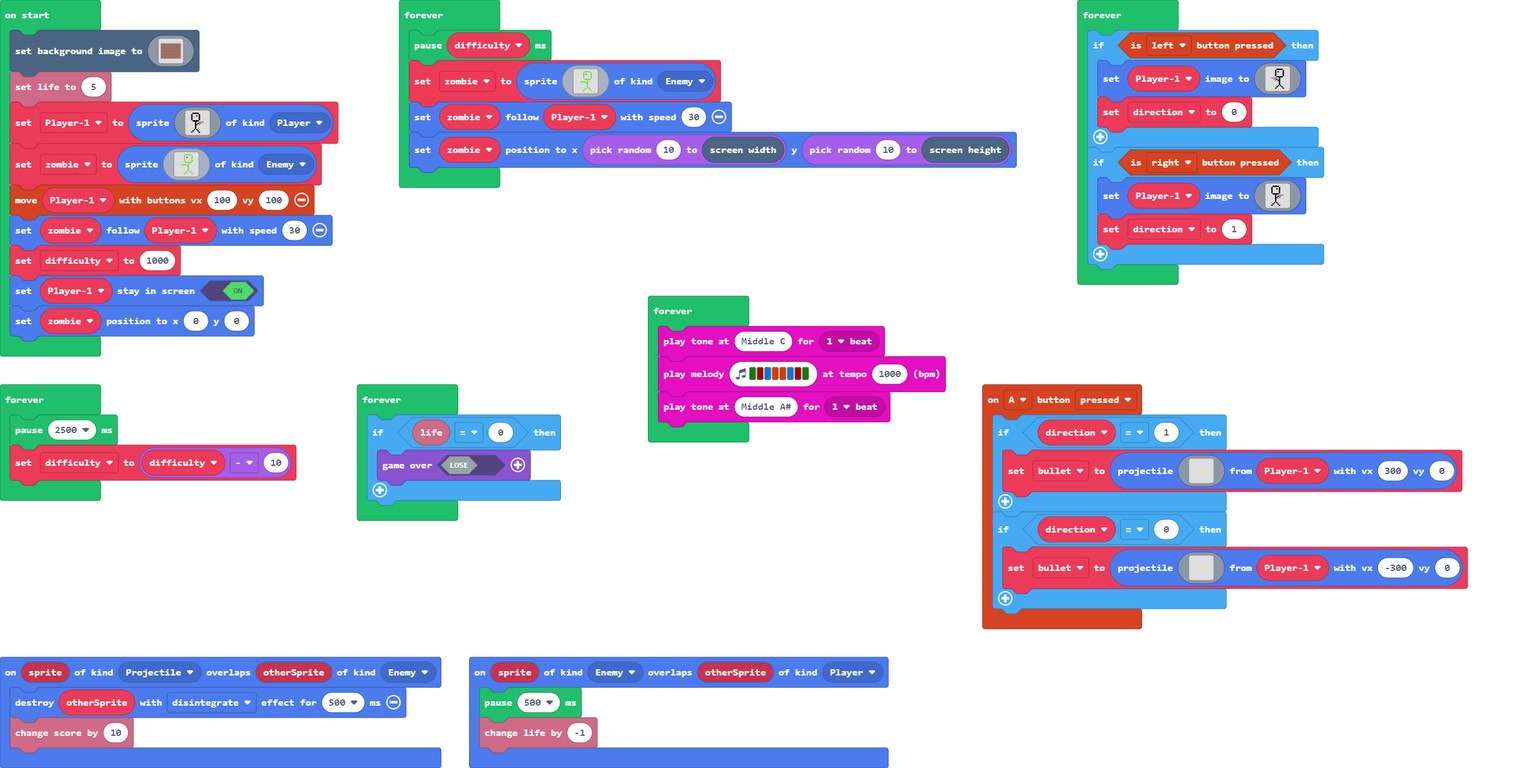
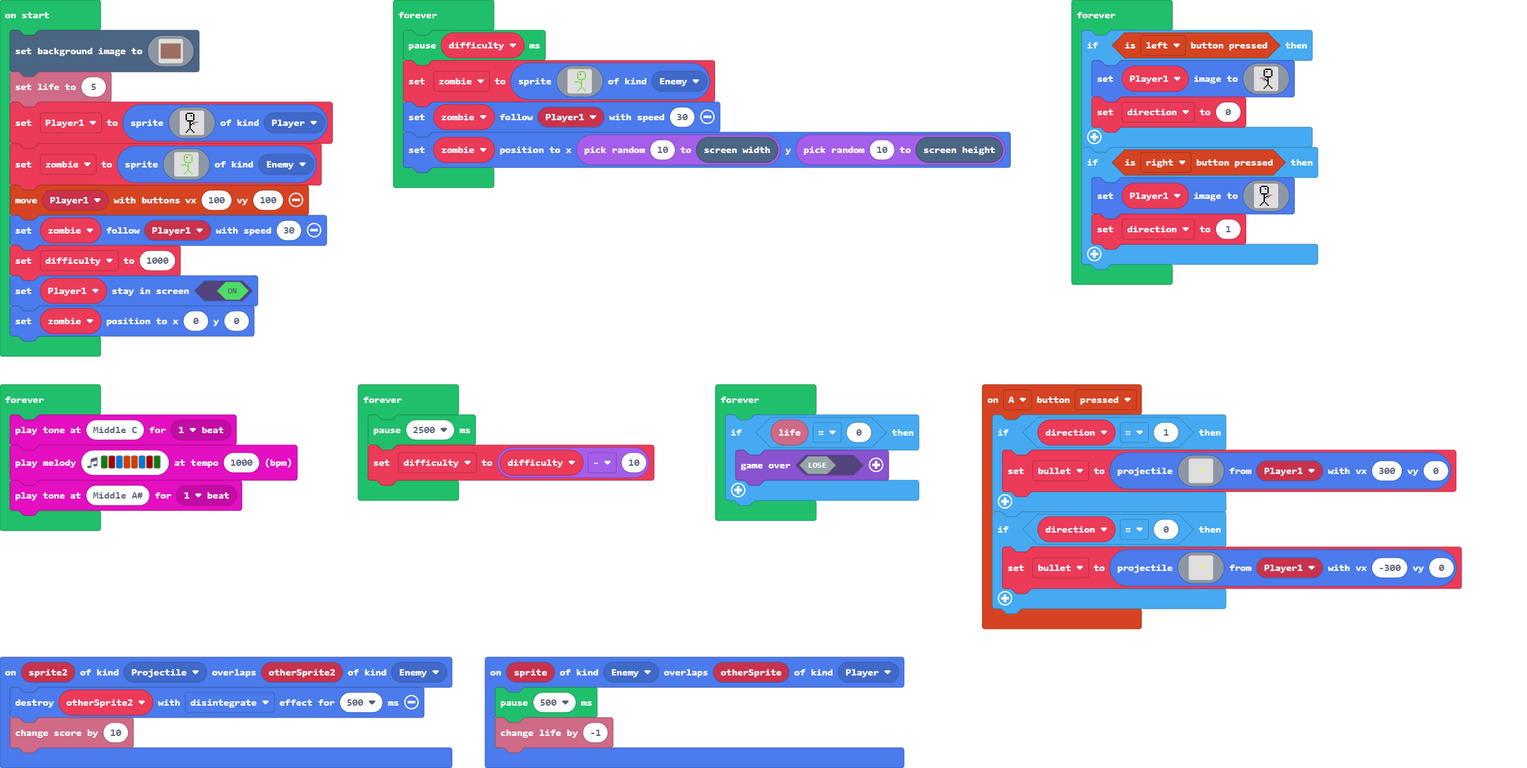
Update pxt.json, main.blocks, main.ts, main.py

diff --git a/main.ts b/main.ts
@@ -44,8 +44,8 @@ sprites.onOverlap(SpriteKind.Enemy, SpriteKind.Player, function (sprite, otherSp
     pause(500)
     info.changeLifeBy(-1)
 })
-sprites.onOverlap(SpriteKind.Projectile, SpriteKind.Enemy, function (sprite, otherSprite) {
-    otherSprite.destroy(effects.disintegrate, 500)
+sprites.onOverlap(SpriteKind.Projectile, SpriteKind.Enemy, function (sprite2, otherSprite2) {
+    otherSprite2.destroy(effects.disintegrate, 500)
     info.changeScoreBy(10)
 })
 let bullet: Sprite = null

diff --git a/main.py b/main.py
@@ -1,0 +1,315 @@
+def on_a_pressed():
+    global bullet
+    if direction == 1:
+        bullet = sprites.create_projectile_from_sprite(img("""
+                . . . . . . . . . . . . . . . . 
+                            . . . . . . . . . . . . . . . . 
+                            . . . . . . . . . . . . . . . . 
+                            . . . . . . . . . . . . . . . . 
+                            . . . . . . . . . . . . . . . . 
+                            . . . . . . . . . . . . . . . . 
+                            . . . . . . . . . . . . . . . . 
+                            . . . . . . . 5 5 5 . . . . . . 
+                            . . . . . . . . . . . . . . . . 
+                            . . . . . . . . . . . . . . . . 
+                            . . . . . . . . . . . . . . . . 
+                            . . . . . . . . . . . . . . . . 
+                            . . . . . . . . . . . . . . . . 
+                            . . . . . . . . . . . . . . . . 
+                            . . . . . . . . . . . . . . . . 
+                            . . . . . . . . . . . . . . . .
+            """),
+            Player1,
+            300,
+            0)
+    if direction == 0:
+        bullet = sprites.create_projectile_from_sprite(img("""
+                . . . . . . . . . . . . . . . . 
+                            . . . . . . . . . . . . . . . . 
+                            . . . . . . . . . . . . . . . . 
+                            . . . . . . . . . . . . . . . . 
+                            . . . . . . . . . . . . . . . . 
+                            . . . . . . . . . . . . . . . . 
+                            . . . . . . . . . . . . . . . . 
+                            . . . . . . . 5 5 5 . . . . . . 
+                            . . . . . . . . . . . . . . . . 
+                            . . . . . . . . . . . . . . . . 
+                            . . . . . . . . . . . . . . . . 
+                            . . . . . . . . . . . . . . . . 
+                            . . . . . . . . . . . . . . . . 
+                            . . . . . . . . . . . . . . . . 
+                            . . . . . . . . . . . . . . . . 
+                            . . . . . . . . . . . . . . . .
+            """),
+            Player1,
+            -300,
+            0)
+controller.A.on_event(ControllerButtonEvent.PRESSED, on_a_pressed)
+
+def on_on_overlap(sprite, otherSprite):
+    pause(500)
+    info.change_life_by(-1)
+sprites.on_overlap(SpriteKind.enemy, SpriteKind.player, on_on_overlap)
+
+def on_on_overlap2(sprite2, otherSprite2):
+    otherSprite2.destroy(effects.disintegrate, 500)
+    info.change_score_by(10)
+sprites.on_overlap(SpriteKind.projectile, SpriteKind.enemy, on_on_overlap2)
+
+bullet: Sprite = None
+direction = 0
+Player1: Sprite = None
+scene.set_background_image(img("""
+    eeeeeeeeeeeeeeeeeeeeeeeeeeeeeeeeeeeeeeeeeeeeeeeeeeeeeeeeeeeeeeeeeeeeeeeeeeeeeeeeeeeeeeeeeeeeeeeeeeeeeeeeeeeeeeeeeeeeeeeeeeeeeeeeeeeeeeeeeeeeeeeeeeeeeeeeeeeeeeee
+        eeeefffffffeeeeeeeeeeeeeeeeeeeeeeeeeeeeeeeeeeeeeeeeeeeeeeeeeeeeeeeeeeeeeeeeeeeeeeeeeeeeeeeeeeeeeeeeeeeeeeeeeeeeeeeeeeeeeeeeeeeeeeeeeeeeeeeeeeeeeeeeeeeeeeeeeeeee
+        eeefbbbbbbbfeeeeeeeeeeeeeeeeeeeefffffffeeeeeeeeeeeeeeeeeeeeeefffffffeeeeeeeeeeeeeeeeeeeeeeefffffffeeeeeeeeeeeeeeeeeeeefffffffeeeeeeeeeeeeeeeeeeeefffffffeeeeeeee
+        eefbbbbbbbbbfeeeeeeeeeeeeeeeeeefbbbbbbbfeeeeeeeeeeeeeeeeeeeefbbbbbbbfeeeeeeeeeeeeeeeeeeeeefbbbbbbbfeeeeeeeeeeeeeeeeeefbbbbbbbfeeeeeeeeeeeeeeeeeefbbbbbbbfeeeeeee
+        efbbbbbbbbbbbfeeeeeeeeeeeeeeeefbbbbbbbbbfeeeeeeeeeeeeeeeeeefbbbbbbbbbfeeeeeeeeeeeeeeeeeeefbbbbbbbbbfeeeeeeeeeeeeeeeefbbbbbbbbbfeeeeeeeeeeeeeeeefbbbbbbbbbfeeeeee
+        efbbbbbbbbbbbfeeeeeeeeeeeeeeefbbbbbbbbbbbfeeeeeeeeeeeeeeeefbbbbbbbbbbbfeeeeeeeeeeeeeeeeefbbbbbbbbbbbfeeeeeeeeeeeeeefbbbbbbbbbbbfeeeeeeeeeeeeeefbbbbbbbbbbbfeeeee
+        efbbfffffffbbfeeeeeeeeeeeeeeefbbbbbbbbbbbfeeeeeeeeeeeeeeeefbbbbbbbbbbbfeeeeeeeeeeeeeeeeefbbbbbbbbbbbfeeeeeeeeeeeeeefbbbbbbbbbbbfeeeeeeeeeeeeeefbbbbbbbbbbbfeeeee
+        efbfbbffbbbbbfeeeeeeeeeeeeeeefbbfffffffbbfeeeeeeeeeeeeeeeefbbfffffffbbfeeeeeeeeeeeeeeeeefbbfffffffbbfeeeeeeeeeeeeeefbbfffffffbbfeeeeeeeeeeeeeefbbfffffffbbfeeeee
+        efbbbbbbbbbbbfeeeeeeeeeeeeeeefbfbbffbbbbbfeeeeeeeeeeeeeeeefbfbbffbbbbbfeeeeeeeeeeeeeeeeefbfbbffbbbbbfeeeeeeeeeeeeeefbfbbffbbbbbfeeeeeeeeeeeeeefbfbbffbbbbbfeeeee
+        efbffbffbbffbfeeeeeeeeeeeeeeefbbbbbbbbbbbfeeeeeeeeeeeeeeeefbbbbbbbbbbbfeeeeeeeeeeeeeeeeefbbbbbbbbbbbfeeeeeeeeeeeeeefbbbbbbbbbbbfeeeeeeeeeeeeeefbbbbbbbbbbbfeeeee
+        efbfbffffffbbfeeeeeeeeeeeeeeefbffbffbbffbfeeeeeeeeeeeeeeeefbffbffbbffbfeeeeeeeeeeeeeeeeefbffbffbbffbfeeeeeeeeeeeeeefbffbffbbffbfeeeeeeeeeeeeeefbffbffbbffbfeeeee
+        efbbbbbbbbbbbfeeeeeeeeeeeeeeefbfbffffffbbfeeeeeeeeeeeeeeeefbfbffffffbbfeeeeeeeeeeeeeeeeefbfbffffffbbfeeeeeeeeeeeeeefbfbffffffbbfeeeeeeeeeeeeeefbfbffffffbbfeeeee
+        efbbbffffffbbfeeeeeeeeeeeeeeefbbbbbbbbbbbfeeeeeeeeeeeeeeeefbbbbbbbbbbbfeeeeeeeeeeeeeeeeefbbbbbbbbbbbfeeeeeeeeeeeeeefbbbbbbbbbbbfeeeeeeeeeeeeeefbbbbbbbbbbbfeeeee
+        efbbffbbbbffbfeeeeeeeeeeeeeeefbbbffffffbbfeeeeeeeeeeeeeeeefbbbffffffbbfeeeeeeeeeeeeeeeeefbbbffffffbbfeeeeeeeeeeeeeefbbbffffffbbfeeeeeeeeeeeeeefbbbffffffbbfeeeee
+        efbbfbbbbbbbbfeeeeeeeeeeeeeeefbbffbbbbffbfeeeeeeeeeeeeeeeefbbffbbbbffbfeeeeeeeeeeeeeeeeefbbffbbbbffbfeeeeeeeeeeeeeefbbffbbbbffbfeeeeeeeeeeeeeefbbffbbbbffbfeeeee
+        efbbbffbbfffffeeeeeeeeeeeeeeefbbfbbbbbbbbfeeeeeeeeeeeeeeeefbbfbbbbbbbbfeeeeeeeeeeeeeeeeefbbfbbbbbbbbfeeeeeeeeeeeeeefbbfbbbbbbbbfeeeeeeeeeeeeeefbbfbbbbbbbbfeeeee
+        effffeffffeeefeeeeeeeeeeeeeeefbbbffbbfffffeeeeeeeeeeeeeeeefbbbffbbfffffeeeeeeeeeeeeeeeeefbbbffbbfffffeeeeeeeeeeeeeefbbbffbbfffffeeeeeeeeeeeeeefbbbffbbfffffeeeee
+        eeeeeeeeeeeeeeeeeeeeeeeeeeeeeffffeffffeeefeeeeeeeeeeeeeeeeffffeffffeeefeeeeeeeeeeeeeeeeeffffeffffeeefeeeeeeeeeeeeeeffffeffffeeefeeeeeeeeeeeeeeffffeffffeeefeeeee
+        eeeeeeeeeeeeeeeeeeeeeeeeeeeeeeeeeeeeeeeeeeeeeeeeeeeeeeeeeeeeeeeeeeeeeeeeeeeeeeeeeeeeeeeeeeeeeeeeeeeeeeeeeeeeeeeeeeeeeeeeeeeeeeeeeeeeeeeeeeeeeeeeeeeeeeeeeeeeeeee
+        eeeeeeeeeeeeeeeeeeeeeeeeeeeeeeeeeeeeeeeeeeeeeeeeeeeeeeeeeeeeeeeeeeeeeeeeeeeeeeeeeeeeeeeeeeeeeeeeeeeeeeeeeeeeeeeeeeeeeeeeeeeeeeeeeeeeeeeeeeeeeeeeeeeeeeeeeeeeeeee
+        eeeeeeeeeeeeeeeeeeeeeeeeeeeeeeeeeeeeeeeeeeeeeeeeeeeeeeeeeeeeeeeeeeeeeeeeeeeeeeeeeeeeeeeeeeeeeeeeeeeeeeeeeeeeeeeeeeeeeeeeeeeeeeeeeeeeeeeeeeeeeeeeeeeeeeeeeeeeeeee
+        eeeeeeeeeeeeeeeeeeeeeeeeeeeeeeeeeeeeeeeeeeeeeeeeeeeeeeeeeeeeeeeeeeeeeeeeeeeeeeeefffffffeeeeeeeeeeeeeeeeeeeeeeeeeeeeeeeeeeeeeeeeeeeeeeeeeeeeeeeeeeeeeeeeeeeeeeeee
+        eeeeeeeeeeeeeeeeeeeeeeeeeeeeeeeeeeeeeeeeeeeeeeeeeeeeefffffffeeeeeeeeeeeeeeeeeeefbbbbbbbfeeeeeeeeeeeeeeeeeeeeeeeeeefffffffeeeeeeeeeeeeeeeeeeeeeeeeeeeeeeeeeeeeeee
+        eeeeeeeeeeeeeeeeeeeeeeeeeeeeeeeefffffffeeeeeeeeeeeeefbbbbbbbfeeeeeeeeeeeeeeeeefbbbbbbbbbfeeeeeeeeeeeeeeeeeeeeeeeefbbbbbbbfeeeeeeeeeeeeeeeeeeeeeeeeeeeeeeeeeeeeee
+        eeeeeefffffffeeeeeeeeeeeeeeeeeefbbbbbbbfeeeeeeeeeeefbbbbbbbbbfeeeeeeeeeeeeeeefbbbbbbbbbbbfeeeeeeeeeeeeeeeeeeeeeefbbbbbbbbbfeeeeeeeeeeeeeeeeeeeeeeeeeeeeeeeeeeeee
+        eeeeefbbbbbbbfeeeeeeeeeeeeeeeefbbbbbbbbbfeeeeeeeeefbbbbbbbbbbbfeeeeeeeeeeeeeefbbbbbbbbbbbfeeeeeeeeeeeeeeeeeeeeefbbbbbbbbbbbfeeeeeeeeeeeeeeeefffffffeeeeeeeeeeeee
+        eeeefbbbbbbbbbfeeeeeeeeeeeeeefbbbbbbbbbbbfeeeeeeeefbbbbbbbbbbbfeeeeeeeeeeeeeefbbfffffffbbfeeeeeeeeeeeeeeeeeeeeefbbbbbbbbbbbfeeeeeeeeeeeeeeefbbbbbbbfeeeeeeeeeeee
+        eeefbbbbbbbbbbbfeeeeeeeeeeeeefbbbbbbbbbbbfeeeeeeeefbbfffffffbbfeeeeeeeeeeeeeefbfbbffbbbbbfeeeeeeeeeeeeeeeeeeeeefbbfffffffbbfeeeeeeeeeeeeeefbbbbbbbbbfeeeeeeeeeee
+        eeefbbbbbbbbbbbfeeeeeeeeeeeeefbbfffffffbbfeeeeeeeefbfbbffbbbbbfeeeeeeeeeeeeeefbbbbbbbbbbbfeeeeeeeeeeeeeeeeeeeeefbfbbffbbbbbfeeeeeeeeeeeeefbbbbbbbbbbbfeeeeeeeeee
+        eeefbbfffffffbbfeeeeeeeeeeeeefbfbbffbbbbbfeeeeeeeefbbbbbbbbbbbfeeeeeeeeeeeeeefbffbffbbffbfeeeeeeeeeeeeeeeeeeeeefbbbbbbbbbbbfeeeeeeeeeeeeefbbbbbbbbbbbfeeeeeeeeee
+        eeefbfbbffbbbbbfeeeeeeeeeeeeefbbbbbbbbbbbfeeeeeeeefbffbffbbffbfeeeeeeeeeeeeeefbfbffffffbbfeeeeeeeeeeeeeeeeeeeeefbffbffbbffbfeeeeeeeeeeeeefbbfffffffbbfeeeeeeeeee
+        eeefbbbbbbbbbbbfeeeeeeeeeeeeefbffbffbbffbfeeeeeeeefbfbffffffbbfeeeeeeeeeeeeeefbbbbbbbbbbbfeeeeeeeeeeeeeeeeeeeeefbfbffffffbbfeeeeeeeeeeeeefbfbbffbbbbbfeeeeeeeeee
+        eeefbffbffbbffbfeeeeeeeeeeeeefbfbffffffbbfeeeeeeeefbbbbbbbbbbbfeeeeeeeeeeeeeefbbbffffffbbfeeeeeeeeeeeeeeeeeeeeefbbbbbbbbbbbfeeeeeeeeeeeeefbbbbbbbbbbbfeeeeeeeeee
+        eeefbfbffffffbbfeeeeeeeeeeeeefbbbbbbbbbbbfeeeeeeeefbbbffffffbbfeeeeeeeeeeeeeefbbffbbbbffbfeeeeeeeeeeeeeeeeeeeeefbbbffffffbbfeeeeeeeeeeeeefbffbffbbffbfeeeeeeeeee
+        eeefbbbbbbbbbbbfeeeeeeeeeeeeefbbbffffffbbfeeeeeeeefbbffbbbbffbfeeeeeeeeeeeeeefbbfbbbbbbbbfeeeeeeeeeeeeeeeeeeeeefbbffbbbbffbfeeeeeeeeeeeeefbfbffffffbbfeeeeeeeeee
+        eeefbbbffffffbbfeeeeeeeeeeeeefbbffbbbbffbfeeeeeeeefbbfbbbbbbbbfeeeeeeeeeeeeeefbbbffbbfffffeeeeeeeeeeeeeeeeeeeeefbbfbbbbbbbbfeeeeeeeeeeeeefbbbbbbbbbbbfeeeeeeeeee
+        eeefbbffbbbbffbfeeeeeeeeeeeeefbbfbbbbbbbbfeeeeeeeefbbbffbbfffffeeeeeeeeeeeeeeffffeffffeeefeeeeeeeeeeeeeeeeeeeeefbbbffbbfffffeeeeeeeeeeeeefbbbffffffbbfeeeeeeeeee
+        eeefbbfbbbbbbbbfeeeeeeeeeeeeefbbbffbbfffffeeeeeeeeffffeffffeeefeeeeeeeeeeeeeeeeeeeeeeeeeeeeeeeeeeeeeeeeeeeeeeeeffffeffffeeefeeeeeeeeeeeeefbbffbbbbffbfeeeeeeeeee
+        eeefbbbffbbfffffeeeeeeeeeeeeeffffeffffeeefeeeeeeeeeeeeeeeeeeeeeeeeeeeeeeeeeeeeeeeeeeeeeeeeeeeeeeeeeeeeeeeeeeeeeeeeeeeeeeeeeeeeeeeeeeeeeeefbbfbbbbbbbbfeeeeeeeeee
+        eeeffffeffffeeefeeeeeeeeeeeeeeeeeeeeeeeeeeeeeeeeeeeeeeeeeeeeeeeeeeeeeeeeeeeeeeeeeeeeeeeeeeeeeeeeeeeeeeeeeeeeeeeeeeeeeeeeeeeeeeeeeeeeeeeeefbbbffbbfffffeeeeeeeeee
+        eeeeeeeeeeeeeeeeeeeeeeeeeeeeeeeeeeeeeeeeeeeeeeeeeeeeeeeeeeeeeeeeeeeeeeeeeeeeeeeeeeeeeeeeeeeeeeeeeeeeeeeeeeeeeeeeeeeeeeeeeeeeeeeeeeeeeeeeeffffeffffeeefeeeeeeeeee
+        eeeeeeeeeeeeeeeeeeeeeeeeeeeeeeeeeeeeeeeeeeeeeeeeeeeeeeeeeeeeeeeeeeeeeeeeeeeeeeeeeeeeeeeeeeeeeeeeeeeeeeeeeeeeeeeeeeeeeeeeeeeeeeeeeeeeeeeeeeeeeeeeeeeeeeeeeeeeeeee
+        eeeeeeeeeeeeeeeeeeeeeeeeeeeeeeeeeeeeeeeeeeeeeeeeeeeeeeeeeeeeeeeeeeeeeeeeeeeeeeeeeeeeeeeeeeeeeeeeeeeeeeeeeeeeeeeeeeeeeeeeeeeeeeeeeeeeeeeeeeeeeeeeeeeeeeeeeeeeeeee
+        eeeeeeeeeeeeeeeeeeeeeeeeeeeeeeeeeeeeeeeeeeeeeeeeeeeeeeeeeeeeeeeeeeeeeeeeeeeeeeeeeeeeeeeeefffffffeeeeeeeeeeeeeeeeeeeeeeefffffffeeeeeeeeeeeeeeeeeeeeeeeeeeeeeeeeee
+        eeeeeeeeeeeeeeeeeeeeeeeeeeeeeeeeeeeeeeeeeeeeeeeeeeeeeeeeeeeeeeeeeeeeeeeeeeeeeeeeeeeeeeeefbbbbbbbfeeeeeeeeeeeeeeeeeeeeefbbbbbbbfeeeeeeeeeeeeeeeeeeeefffffffeeeeee
+        eeeeeeeeeeeeeeeeeeeeeeeeeeeeeeeeeeeeeeeeeeeeeeeeeeeeeeeeeeeeeeeeeeeeeeeeeeeeeeeeeeeeeeefbbbbbbbbbfeeeeeeeeeeeeeeeeeeefbbbbbbbbbfeeeeeeeeeeeeeeeeeefbbbbbbbfeeeee
+        eeeeeeeeeeeeeeeeeeeeeeeeeeeeeeeeeeeeeeeeeeeeeeeeeeeeeeeeeeeeeeeeeeeeeeeeeeeeeeeeeeeeeefbbbbbbbbbbbfeeeeeeeeeeeeeeeeefbbbbbbbbbbbfeeeeeeeeeeeeeeeefbbbbbbbbbfeeee
+        eeeeeeeeeeeeeeeeeeeeeeeeeeeeeeeeeeeeeeeeeeeeeeeeeeeeeeeeeeeeeeeeeeeeeeeeeeeeeeeeeeeeeefbbbbbbbbbbbfeeeeeeeeeeeeeeeeefbbbbbbbbbbbfeeeeeeeeeeeeeeefbbbbbbbbbbbfeee
+        eeeeeeeeeeeeeeeeeeeeeeeeeeeeeeeeeeeeeeeeeeeeeeeeeeeeeeeeeeefffffffeeeeeeeeeeeeeeeeeeeefbbfffffffbbfeeeeeeeeeeeeeeeeefbbfffffffbbfeeeeeeeeeeeeeeefbbbbbbbbbbbfeee
+        eeeeeefffffffeeeeeeeeeeeeeeeeeeefffffffeeeeeeeeeeeeeeeeeeefbbbbbbbfeeeeeeeeeeeeeeeeeeefbfbbffbbbbbfeeeeeeeeeeeeeeeeefbfbbffbbbbbfeeeeeeeeeeeeeeefbbfffffffbbfeee
+        eeeeefbbbbbbbfeeeeeeeeeeeeeeeeefbbbbbbbfeeeeeeeeeeeeeeeeefbbbbbbbbbfeeeeeeeeeeeeeeeeeefbbbbbbbbbbbfeeeeeeeeeeeeeeeeefbbbbbbbbbbbfeeeeeeeeeeeeeeefbfbbffbbbbbfeee
+        eeeefbbbbbbbbbfeeeeeeeeeeeeeeefbbbbbbbbbfeeeeeeeeeeeeeeefbbbbbbbbbbbfeeeeeeeeeeeeeeeeefbffbffbbffbfeeeeeeeeeeeeeeeeefbffbffbbffbfeeeeeeeeeeeeeeefbbbbbbbbbbbfeee
+        eeefbbbbbbbbbbbfeeeeeeeeeeeeefbbbbbbbbbbbfeeeeeeeeeeeeeefbbbbbbbbbbbfeeeeeeeeeeeeeeeeefbfbffffffbbfeeeeeeeeeeeeeeeeefbfbffffffbbfeeeeeeeeeeeeeeefbffbffbbffbfeee
+        eeefbbbbbbbbbbbfeeeeeeeeeeeeefbbbbbbbbbbbfeeeeeeeeeeeeeefbbfffffffbbfeeeeeeeeeeeeeeeeefbbbbbbbbbbbfeeeeeeeeeeeeeeeeefbbbbbbbbbbbfeeeeeeeeeeeeeeefbfbffffffbbfeee
+        eeefbbfffffffbbfeeeeeeeeeeeeefbbfffffffbbfeeeeeeeeeeeeeefbfbbffbbbbbfeeeeeeeeeeeeeeeeefbbbffffffbbfeeeeeeeeeeeeeeeeefbbbffffffbbfeeeeeeeeeeeeeeefbbbbbbbbbbbfeee
+        eeefbfbbffbbbbbfeeeeeeeeeeeeefbfbbffbbbbbfeeeeeeeeeeeeeefbbbbbbbbbbbfeeeeeeeeeeeeeeeeefbbffbbbbffbfeeeeeeeeeeeeeeeeefbbffbbbbffbfeeeeeeeeeeeeeeefbbbffffffbbfeee
+        eeefbbbbbbbbbbbfeeeeeeeeeeeeefbbbbbbbbbbbfeeeeeeeeeeeeeefbffbffbbffbfeeeeeeeeeeeeeeeeefbbfbbbbbbbbfeeeeeeeeeeeeeeeeefbbfbbbbbbbbfeeeeeeeeeeeeeeefbbffbbbbffbfeee
+        eeefbffbffbbffbfeeeeeeeeeeeeefbffbffbbffbfeeeeeeeeeeeeeefbfbffffffbbfeeeeeeeeeeeeeeeeefbbbffbbfffffeeeeeeeeeeeeeeeeefbbbffbbfffffeeeeeeeeeeeeeeefbbfbbbbbbbbfeee
+        eeefbfbffffffbbfeeeeeeeeeeeeefbfbffffffbbfeeeeeeeeeeeeeefbbbbbbbbbbbfeeeeeeeeeeeeeeeeeffffeffffeeefeeeeeeeeeeeeeeeeeffffeffffeeefeeeeeeeeeeeeeeefbbbffbbfffffeee
+        eeefbbbbbbbbbbbfeeeeeeeeeeeeefbbbbbbbbbbbfeeeeeeeeeeeeeefbbbffffffbbfeeeeeeeeeeeeeeeeeeeeeeeeeeeeeeeeeeeeeeeeeeeeeeeeeeeeeeeeeeeeeeeeeeeeeeeeeeeffffeffffeeefeee
+        eeefbbbffffffbbfeeeeeeeeeeeeefbbbffffffbbfeeeeeeeeeeeeeefbbffbbbbffbfeeeeeeeeeeeeeeeeeeeeeeeeeeeeeeeeeeeeeeeeeeeeeeeeeeeeeeeeeeeeeeeeeeeeeeeeeeeeeeeeeeeeeeeeeee
+        eeefbbffbbbbffbfeeeeeeeeeeeeefbbffbbbbffbfeeeeeeeeeeeeeefbbfbbbbbbbbfeeeeeeeeeeeeeeeeeeeeeeeeeeeeeeeeeeeeeeeeeeeeeeeeeeeeeeeeeeeeeeeeeeeeeeeeeeeeeeeeeeeeeeeeeee
+        eeefbbfbbbbbbbbfeeeeeeeeeeeeefbbfbbbbbbbbfeeeeeeeeeeeeeefbbbffbbfffffeeeeeeeeeeeeeeeeeeeeeeeeeeeeeeeeeeeeeeeeeeeeeeeeeeeeeeeeeeeeeeeeeeeeeeeeeeeeeeeeeeeeeeeeeee
+        eeefbbbffbbfffffeeeeeeeeeeeeefbbbffbbfffffeeeeeeeeeeeeeeffffeffffeeefeeeeeeeeeeeeeeeeeeeeeeeeeeeeeeeeeeeeeeeeeeeeeeeeeeeeeeeeeeeeeeeeeeeeeeeeeeeeeeeeeeeeeeeeeee
+        eeeffffeffffeeefeeeeeeeeeeeeeffffeffffeeefeeeeeeeeeeeeeeeeeeeeeeeeeeeeeeeeeeeeeeeeeeeeeeeeeeeeeeeeeeeeeeeeeeeeeeeeeeeeeeeeeeeeeeeeeeeeeeeeeeeeeeeeeeeeeeeeeeeeee
+        eeeeeeeeeeeeeeeeeeeeeeeeeeeeeeeeeeeeeeeeeeeeeeeeeeeeeeeeeeeeeeeeeeeeeeeeeeeeeeeeeeeeeeeeeeeeeeeeeeeeeeeeeeeeeeeeeeeeeeeeeeeeeeeeeeeeeeeeeeeeeeeeeeeeeeeeeeeeeeee
+        eeeeeeeeeeeeeeeeeeeeeeeeeeeeeeeeeeeeeeeeeeeeeeeeeeeeeeeeeeeeeeeeeeeeeeeeeeeeeeeeeeeeeeeeeeeeeeeeeeeeeeeeeeeeeeeeeeeeeeeeeeeeeeeeeeeeeeeeeeeefffffffeeeeeeeeeeeee
+        eeeeeeeeeeeeeeeeeeeeeeeeeeeeeeeeeeeeeeeeeeeeeeeeeeeeeeeeeeeeeeeeeeeeeeeeeeeeeeeeeeeeeeeeeeeeeeeeeeeeeeeeeeeeeeeeeeeeeeeeeeeeeeeeeeeeeeeeeeefbbbbbbbfeeeeeeeeeeee
+        eeeeeeeeeeeeeeeeeeeeeeeeeeeeeeeeeeeeeeeeeeeeeeeeeeeeeeeeeeeeeeeeeeeeeeeeeeeeeeeeeeeeeeeeeeeeeeeeeeeeeeeeeeeeeeeeeeeeeeeeeeeeeeeeeeeeeeeeeefbbbbbbbbbfeeeeeeeeeee
+        eeeeeeeeeeeeeeeeeeeeeeeeeeeeeeeeeeeeeeeeeeeeeeeeeeeeeeeeeeeefffffffeeeeeeeeeeeeeeeeeeeeeeeeeeeeeeeeeeeeeeeeeeeeeeeeeeeeeeeeeeeeeeeeeeeeeefbbbbbbbbbbbfeeeeeeeeee
+        eeeeeeefffffffeeeeeeeeeeeeeeeeeefffffffeeeeeeeeeeeeeeeeeeeefbbbbbbbfeeeeeeeeeeeeeeeeeeeeeeeeeeeeeeeeeeeeeeeeeeeeeeefffffffeeeeeeeeeeeeeeefbbbbbbbbbbbfeeeeeeeeee
+        eeeeeefbbbbbbbfeeeeeeeeeeeeeeeefbbbbbbbfeeeeeeeeeeeeeeeeeefbbbbbbbbbfeeeeeeeeeeeeeeeeeeeeeeeeeeeeeeeeeeeeeeeeeeeeefbbbbbbbfeeeeeeeeeeeeeefbbfffffffbbfeeeeeeeeee
+        eeeeefbbbbbbbbbfeeeeeeeeeeeeeefbbbbbbbbbfeeeeeeeeeeeeeeeefbbbbbbbbbbbfeeeeeeeeeeeeeeeeeeeeefffffffeeeeeeeeeeeeeeefbbbbbbbbbfeeeeeeeeeeeeefbfbbffbbbbbfeeeeeeeeee
+        eeeefbbbbbbbbbbbfeeeeeeeeeeeefbbbbbbbbbbbfeeeeeeeeeeeeeeefbbbbbbbbbbbfeeeeeeeeeeeeeeeeeeeefbbbbbbbfeeeeeeeeeeeeefbbbbbbbbbbbfeeeeeeeeeeeefbbbbbbbbbbbfeeeeeeeeee
+        eeeefbbbbbbbbbbbfeeeeeeeeeeeefbbbbbbbbbbbfeeeeeeeeeeeeeeefbbfffffffbbfeeeeeeeeeeeeeeeeeeefbbbbbbbbbfeeeeeeeeeeeefbbbbbbbbbbbfeeeeeeeeeeeefbffbffbbffbfeeeeeeeeee
+        eeeefbbfffffffbbfeeeeeeeeeeeefbbfffffffbbfeeeeeeeeeeeeeeefbfbbffbbbbbfeeeeeeeeeeeeeeeeeefbbbbbbbbbbbfeeeeeeeeeeefbbfffffffbbfeeeeeeeeeeeefbfbffffffbbfeeeeeeeeee
+        eeeefbfbbffbbbbbfeeeeeeeeeeeefbfbbffbbbbbfeeeeeeeeeeeeeeefbbbbbbbbbbbfeeeeeeeeeeeeeeeeeefbbbbbbbbbbbfeeeeeeeeeeefbfbbffbbbbbfeeeeeeeeeeeefbbbbbbbbbbbfeeeeeeeeee
+        eeeefbbbbbbbbbbbfeeeeeeeeeeeefbbbbbbbbbbbfeeeeeeeeeeeeeeefbffbffbbffbfeeeeeeeeeeeeeeeeeefbbfffffffbbfeeeeeeeeeeefbbbbbbbbbbbfeeeeeeeeeeeefbbbffffffbbfeeeeeeeeee
+        eeeefbffbffbbffbfeeeeeeeeeeeefbffbffbbffbfeeeeeeeeeeeeeeefbfbffffffbbfeeeeeeeeeeeeeeeeeefbfbbffbbbbbfeeeeeeeeeeefbffbffbbffbfeeeeeeeeeeeefbbffbbbbffbfeeeeeeeeee
+        eeeefbfbffffffbbfeeeeeeeeeeeefbfbffffffbbfeeeeeeeeeeeeeeefbbbbbbbbbbbfeeeeeeeeeeeeeeeeeefbbbbbbbbbbbfeeeeeeeeeeefbfbffffffbbfeeeeeeeeeeeefbbfbbbbbbbbfeeeeeeeeee
+        eeeefbbbbbbbbbbbfeeeeeeeeeeeefbbbbbbbbbbbfeeeeeeeeeeeeeeefbbbffffffbbfeeeeeeeeeeeeeeeeeefbffbffbbffbfeeeeeeeeeeefbbbbbbbbbbbfeeeeeeeeeeeefbbbffbbfffffeeeeeeeeee
+        eeeefbbbffffffbbfeeeeeeeeeeeefbbbffffffbbfeeeeeeeeeeeeeeefbbffbbbbffbfeeeeeeeeeeeeeeeeeefbfbffffffbbfeeeeeeeeeeefbbbffffffbbfeeeeeeeeeeeeffffeffffeeefeeeeeeeeee
+        eeeefbbffbbbbffbfeeeeeeeeeeeefbbffbbbbffbfeeeeeeeeeeeeeeefbbfbbbbbbbbfeeeeeeeeeeeeeeeeeefbbbbbbbbbbbfeeeeeeeeeeefbbffbbbbffbfeeeeeeeeeeeeeeeeeeeeeeeeeeeeeeeeeee
+        eeeefbbfbbbbbbbbfeeeeeeeeeeeefbbfbbbbbbbbfeeeeeeeeeeeeeeefbbbffbbfffffeeeeeeeeeeeeeeeeeefbbbffffffbbfeeeeeeeeeeefbbfbbbbbbbbfeeeeeeeeeeeeeeeeeeeeeeeeeeeeeeeeeee
+        eeeefbbbffbbfffffeeeeeeeeeeeefbbbffbbfffffeeeeeeeeeeeeeeeffffeffffeeefeeeeeeeeeeeeeeeeeefbbffbbbbffbfeeeeeeeeeeefbbbffbbfffffeeeeeeeeeeeeeeeeeeeeeeeeeeeeeeeeeee
+        eeeeffffeffffeeefeeeeeeeeeeeeffffeffffeeefeeeeeeeeeeeeeeeeeeeeeeeeeeeeeeeeeeeeeeeeeeeeeefbbfbbbbbbbbfeeeeeeeeeeeffffeffffeeefeeeeeeeeeeeeeeeeeeeeeeeeeeeeeeeeeee
+        eeeeeeeeeeeeeeeeeeeeeeeeeeeeeeeeeeeeeeeeeeeeeeeeeeeeeeeeeeeeeeeeeeeeeeeeeeeeeeeeeeeeeeeefbbbffbbfffffeeeeeeeeeeeeeeeeeeeeeeeeeeeeeeeeeeeeeeeeeeeeeeeeeeeeeeeeeee
+        eeeeeeeeeeeeeeeeeeeeeeeeeeeeeeeeeeeeeeeeeeeeeeeeeeeeeeeeeeeeeeeeeeeeeeeeeeeeeeeeeeeeeeeeffffeffffeeefeeeeeeeeeeeeeeeeeeeeeeeeeeeeeeeeeeeeeeeeeeeeeeeeeeeeeeeeeee
+        eeeeeeeeeeeeeeeeeeeeeeeeeeeeeeeeeeeeeeeeeeeeeeeeeeeeeeeeeeeeeeeeeeeeeeeeeeeeeeeeeeeeeeeeeeeeeeeeeeeeeeeeeeeeeeeeeeeeeeeeeeeeeeeeeeeeeeeeeeeeeeeeeeeeeeeeeeeeeeee
+        eeeeeeeeeeeeeeeeeeeeeeeeeeeeeeeeeeeeeeeeeeeeeeeeeeeeeeeeeeeeeeeeeeeeeeeeeeeeeeeeeeeeeeeeeeeeeeeeeeeeeeeeeeeeeeeeeeeeeeeeeeeeeeeeeeeeeeeeeeeeeeeeeeeeeeeeeeeeeeee
+        eeeeeeeeeeeeeeeeeeeeeeeeeeeeeeeeeeeeeeeeeeeeeeeeeeeeeeeeeeeeeeeeeeeeeeeeeeeeeeeeeeeeeeeeeeeeeeeeeeeeeeeeeeeeeeeeeeeeeeeeeeeeeeeeeeeeeeeeeeeeeeeeeeeeeeeeeeeeeeee
+        eeeeeeeeeeeeeeeeeeeeeeeeeeeeeeeeeeeeeeeeeeeeeeeeeeeeeeeeeeeeeeeeeeeeeeeeeeeeeeeeeeeeeeeeeeeeeeeeeeeeeeeeeeeeeeeeeeeeeeeeeeeeeeeeeeeeeeeeeeeeeeeeeeeeeeeeeeeeeeee
+        eeeeeeeeeeeeeeeeeeeeeeeeeeeeeeeeeeeeeeeeeeeeeeeeeeeeeeeeeeeeeeeeeeeeeeeeeeeeeeeeeeeeeeeeeeeeeeeeeeeeeeeeeeeeeeeeeeeeeeeeeeeeeeeeeeeeeeeeeeeeeeeeeeeeeeeeeeeeeeee
+        eeeeeeeeeeeeeeeeeeeeeeeeeeeeeeeeeeeeeeeeeeeeeeeeeeeeeeeeeeeeeeeeeeeeeeeeeeeeeeeeeeeeeeeeeeeeeeeeeeeeeeeeeeeeeeeeeeeeeeeeeeeeeeeeeeeeeeeeeeeeeeeeeeeeeeeeeeeeeeee
+        eeeeeeeeeeeeeeeeeeeeeeeeeeeeeeeefffffffeeeeeeeeeeeeeeeeeeeeefffffffeeeeeeeeeeeeeeeeeeeeeeeeeeeeeeeeeeeeeeeeeeeeeeeefffffffeeeeeeeeeeeeeeeeeeeeeefffffffeeeeeeeee
+        eeeeeefffffffeeeeeeeeeeeeeeeeeefbbbbbbbfeeeeeeeeeeeeeeeeeeefbbbbbbbfeeeeeeeeeeeeeeeeeeeeeeefffffffeeeeeeeeeeeeeeeefbbbbbbbfeeeeeeeeeeeeeeeeeeeefbbbbbbbfeeeeeeee
+        eeeeefbbbbbbbfeeeeeeeeeeeeeeeefbbbbbbbbbfeeeeeeeeeeeeeeeeefbbbbbbbbbfeeeeeeeeeeeeeeeeeeeeefbbbbbbbfeeeeeeeeeeeeeefbbbbbbbbbfeeeeeeeeeeeeeeeeeefbbbbbbbbbfeeeeeee
+        eeeefbbbbbbbbbfeeeeeeeeeeeeeefbbbbbbbbbbbfeeeeeeeeeeeeeeefbbbbbbbbbbbfeeeeeeeeeeeeeeeeeeefbbbbbbbbbfeeeeeeeeeeeefbbbbbbbbbbbfeeeeeeeeeeeeeeeefbbbbbbbbbbbfeeeeee
+        eeefbbbbbbbbbbbfeeeeeeeeeeeeefbbbbbbbbbbbfeeeeeeeeeeeeeeefbbbbbbbbbbbfeeeeeeeeeeeeeeeeeefbbbbbbbbbbbfeeeeeeeeeeefbbbbbbbbbbbfeeeeeeeeeeeeeeeefbbbbbbbbbbbfeeeeee
+        eeefbbbbbbbbbbbfeeeeeeeeeeeeefbbfffffffbbfeeeeeeeeeeeeeeefbbfffffffbbfeeeeeeeeeeeeeeeeeefbbbbbbbbbbbfeeeeeeeeeeefbbfffffffbbfeeeeeeeeeeeeeeeefbbfffffffbbfeeeeee
+        eeefbbfffffffbbfeeeeeeeeeeeeefbfbbffbbbbbfeeeeeeeeeeeeeeefbfbbffbbbbbfeeeeeeeeeeeeeeeeeefbbfffffffbbfeeeeeeeeeeefbfbbffbbbbbfeeeeeeeeeeeeeeeefbfbbffbbbbbfeeeeee
+        eeefbfbbffbbbbbfeeeeeeeeeeeeefbbbbbbbbbbbfeeeeeeeeeeeeeeefbbbbbbbbbbbfeeeeeeeeeeeeeeeeeefbfbbffbbbbbfeeeeeeeeeeefbbbbbbbbbbbfeeeeeeeeeeeeeeeefbbbbbbbbbbbfeeeeee
+        eeefbbbbbbbbbbbfeeeeeeeeeeeeefbffbffbbffbfeeeeeeeeeeeeeeefbffbffbbffbfeeeeeeeeeeeeeeeeeefbbbbbbbbbbbfeeeeeeeeeeefbffbffbbffbfeeeeeeeeeeeeeeeefbffbffbbffbfeeeeee
+        eeefbffbffbbffbfeeeeeeeeeeeeefbfbffffffbbfeeeeeeeeeeeeeeefbfbffffffbbfeeeeeeeeeeeeeeeeeefbffbffbbffbfeeeeeeeeeeefbfbffffffbbfeeeeeeeeeeeeeeeefbfbffffffbbfeeeeee
+        eeefbfbffffffbbfeeeeeeeeeeeeefbbbbbbbbbbbfeeeeeeeeeeeeeeefbbbbbbbbbbbfeeeeeeeeeeeeeeeeeefbfbffffffbbfeeeeeeeeeeefbbbbbbbbbbbfeeeeeeeeeeeeeeeefbbbbbbbbbbbfeeeeee
+        eeefbbbbbbbbbbbfeeeeeeeeeeeeefbbbffffffbbfeeeeeeeeeeeeeeefbbbffffffbbfeeeeeeeeeeeeeeeeeefbbbbbbbbbbbfeeeeeeeeeeefbbbffffffbbfeeeeeeeeeeeeeeeefbbbffffffbbfeeeeee
+        eeefbbbffffffbbfeeeeeeeeeeeeefbbffbbbbffbfeeeeeeeeeeeeeeefbbffbbbbffbfeeeeeeeeeeeeeeeeeefbbbffffffbbfeeeeeeeeeeefbbffbbbbffbfeeeeeeeeeeeeeeeefbbffbbbbffbfeeeeee
+        eeefbbffbbbbffbfeeeeeeeeeeeeefbbfbbbbbbbbfeeeeeeeeeeeeeeefbbfbbbbbbbbfeeeeeeeeeeeeeeeeeefbbffbbbbffbfeeeeeeeeeeefbbfbbbbbbbbfeeeeeeeeeeeeeeeefbbfbbbbbbbbfeeeeee
+        eeefbbfbbbbbbbbfeeeeeeeeeeeeefbbbffbbfffffeeeeeeeeeeeeeeefbbbffbbfffffeeeeeeeeeeeeeeeeeefbbfbbbbbbbbfeeeeeeeeeeefbbbffbbfffffeeeeeeeeeeeeeeeefbbbffbbfffffeeeeee
+        eeefbbbffbbfffffeeeeeeeeeeeeeffffeffffeeefeeeeeeeeeeeeeeeffffeffffeeefeeeeeeeeeeeeeeeeeefbbbffbbfffffeeeeeeeeeeeffffeffffeeefeeeeeeeeeeeeeeeeffffeffffeeefeeeeee
+        eeeffffeffffeeefeeeeeeeeeeeeeeeeeeeeeeeeeeeeeeeeeeeeeeeeeeeeeeeeeeeeeeeeeeeeeeeeeeeeeeeeffffeffffeeefeeeeeeeeeeeeeeeeeeeeeeeeeeeeeeeeeeeeeeeeeeeeeeeeeeeeeeeeeee
+        eeeeeeeeeeeeeeeeeeeeeeeeeeeeeeeeeeeeeeeeeeeeeeeeeeeeeeeeeeeeeeeeeeeeeeeeeeeeeeeeeeeeeeeeeeeeeeeeeeeeeeeeeeeeeeeeeeeeeeeeeeeeeeeeeeeeeeeeeeeeeeeeeeeeeeeeeeeeeeee
+        eeeeeeeeeeeeeeeeeeeeeeeeeeeeeeeeeeeeeeeeeeeeeeeeeeeeeeeeeeeeeeeeeeeeeeeeeeeeeeeeeeeeeeeeeeeeeeeeeeeeeeeeeeeeeeeeeeeeeeeeeeeeeeeeeeeeeeeeeeeeeeeeeeeeeeeeeeeeeeee
+        eeeeeeeeeeeeeeeeeeeeeeeeeeeeeeeeeeeeeeeeeeeeeeeeeeeeeeeeeeeeeeeeeeeeeeeeeeeeeeeeeeeeeeeeeeeeeeeeeeeeeeeeeeeeeeeeeeeeeeeeeeeeeeeeeeeeeeeeeeeeeeeeeeeeeeeeeeeeeeee
+        eeeeeeeeeeeeeeeeeeeeeeeeeeeeeeeeeeeeeeeeeeeeeeeeeeeeeeeeeeeeeeeeeeeeeeeeeeeeeeeeeeeeeeeeeeeeeeeeeeeeeeeeeeeeeeeeeeeeeeeeeeeeeeeeeeeeeeeeeeeeeeeeeeeeeeeeeeeeeeee
+        eeeeeeeeeeeeeeeeeeeeeeeeeeeeeeeeeeeeeeeeeeeeeeeeeeeeeeeeeeeeeeeeeeeeeeeeeeeeeeeeeeeeeeeeeeeeeeeeeeeeeeeeeeeeeeeeeeeeeeeeeeeeeeeeeeeeeeeeeeeeeeeeeeeeeeeeeeeeeeee
+        eeeeeeeeeeeeeeeeeeeeeeeeeeeeeeeeeeeeeeeeeeeeeeeeeeeeeeeeeeeeeeeeeeeeeeeeeeeeeeeeeeeeeeeeeeeeeeeeeeeeeeeeeeeeeeeeeeeeeeeeeeeeeeeeeeeeeeeeeeeeeeeeeeeeeeeeeeeeeeee
+        eeeeeeeeeeeeeeeeeeeeeeeeeeeeeeeeeeeeeeeeeeeeeeeeeeeeeeeeeeeeeeeeeeeeeeeeeeeeeeeeeeeeeeeeeeeeeeeeeeeeeeeeeeeeeeeeeeeeeeeeeeeeeeeeeeeeeeeeeeeeeeeeeeeeeeeeeeeeeeee
+        eeeeeeeeeeeeeeeeeeeeeeeeeeeeeeeeeeeeeeeeeeeeeeeeeeeeeeeeeeeeeeeeeeeeeeeeeeeeeeeeeeeeeeeeeeeeeeeeeeeeeeeeeeeeeeeeeeeeeeeeeeeeeeeeeeeeeeeeeeeeeeeeeeeeeeeeeeeeeeee
+        eeeeeeeeeeeeeeeeeeeeeeeeeeeeeeeeeeeeeeeeeeeeeeeeeeeeeeeeeeeeeeeeeeeeeeeeeeeeeeeeeeeeeeeeeeeeeeeeeeeeeeeeeeeeeeeeeeeeeeeeeeeeeeeeeeeeeeeeeeeeeeeeeeeeeeeeeeeeeeee
+"""))
+info.set_life(5)
+Player1 = sprites.create(img("""
+        . . . . f f f f f . . . . . . . 
+            . . . f . . . . . f . . . . . . 
+            . . . f . . . f . f . . . . . . 
+            . . . f . . . . . f . . . . . . 
+            . . . f . . . . . f . . . . . . 
+            . . . f . . . . . f . . . . . . 
+            . . . . f f f f f . . . . . . . 
+            . . . . . . f . . b b b b . . . 
+            . . . . . . f . f b b . . . . . 
+            . . . . . . f f . b . . . . . . 
+            . . . . . . f . . . . . . . . . 
+            . . . . . . f . . . . . . . . . 
+            . . . . . . f . . . . . . . . . 
+            . . . . . f . f . . . . . . . . 
+            . . . . f . . . f . . . . . . . 
+            . . . f . . . . . f . . . . . .
+    """),
+    SpriteKind.player)
+zombie = sprites.create(img("""
+        . . . . . . . 7 7 7 7 7 . . . . 
+            . . . . . . 7 . . . . . 7 . . . 
+            . . . . . . 7 . 2 . . . 7 . . . 
+            . . . . . . 7 . . . . . 7 . . . 
+            . . . . . . 7 . . . . . 7 . . . 
+            . . . . . . 7 . . . . . 7 . . . 
+            . . . . . . . 7 7 7 7 7 . . . . 
+            . . . . . . . . . 7 . . . . . . 
+            . . . . 7 7 7 7 . 7 . . . . . . 
+            . . . . . . . . 7 7 . . . . . . 
+            . . . . . . . . . 7 . . . . . . 
+            . . . . . . . . . 7 . . . . . . 
+            . . . . . . . . . 7 . . . . . . 
+            . . . . . . . . 7 . 7 . . . . . 
+            . . . . . . . 7 . . . 7 . . . . 
+            . . . . . . 7 . . . . . 7 . . .
+    """),
+    SpriteKind.enemy)
+controller.move_sprite(Player1, 100, 100)
+zombie.follow(Player1, 30)
+difficulty = 1000
+Player1.set_stay_in_screen(True)
+zombie.set_position(0, 0)
+
+def on_forever():
+    global zombie
+    pause(difficulty)
+    zombie = sprites.create(img("""
+            . . . . . . . 7 7 7 7 7 . . . . 
+                    . . . . . . 7 . . . . . 7 . . . 
+                    . . . . . . 7 . 2 . . . 7 . . . 
+                    . . . . . . 7 . . . . . 7 . . . 
+                    . . . . . . 7 . . . . . 7 . . . 
+                    . . . . . . 7 . . . . . 7 . . . 
+                    . . . . . . . 7 7 7 7 7 . . . . 
+                    . . . . . . . . . 7 . . . . . . 
+                    . . . . 7 7 7 7 . 7 . . . . . . 
+                    . . . . . . . . 7 7 . . . . . . 
+                    . . . . . . . . . 7 . . . . . . 
+                    . . . . . . . . . 7 . . . . . . 
+                    . . . . . . . . . 7 . . . . . . 
+                    . . . . . . . . 7 . 7 . . . . . 
+                    . . . . . . . 7 . . . 7 . . . . 
+                    . . . . . . 7 . . . . . 7 . . .
+        """),
+        SpriteKind.enemy)
+    zombie.follow(Player1, 30)
+    zombie.set_position(randint(10, scene.screen_width()),
+        randint(10, scene.screen_height()))
+forever(on_forever)
+
+def on_forever2():
+    global direction
+    if controller.left.is_pressed():
+        Player1.set_image(img("""
+            . . . . . . . f f f f f . . . . 
+                        . . . . . . f . . . . . f . . . 
+                        . . . . . . f . f . . . f . . . 
+                        . . . . . . f . . . . . f . . . 
+                        . . . . . . f . . . . . f . . . 
+                        . . . . . . f . . . . . f . . . 
+                        . . . . . . . f f f f f . . . . 
+                        . . . b b b b . . f . . . . . . 
+                        . . . . . b b f . f . . . . . . 
+                        . . . . . . b . f f . . . . . . 
+                        . . . . . . . . . f . . . . . . 
+                        . . . . . . . . . f . . . . . . 
+                        . . . . . . . . . f . . . . . . 
+                        . . . . . . . . f . f . . . . . 
+                        . . . . . . . f . . . f . . . . 
+                        . . . . . . f . . . . . f . . .
+        """))
+        direction = 0
+    if controller.right.is_pressed():
+        Player1.set_image(img("""
+            . . . . f f f f f . . . . . . . 
+                        . . . f . . . . . f . . . . . . 
+                        . . . f . . . f . f . . . . . . 
+                        . . . f . . . . . f . . . . . . 
+                        . . . f . . . . . f . . . . . . 
+                        . . . f . . . . . f . . . . . . 
+                        . . . . f f f f f . . . . . . . 
+                        . . . . . . f . . b b b b . . . 
+                        . . . . . . f . f b b . . . . . 
+                        . . . . . . f f . b . . . . . . 
+                        . . . . . . f . . . . . . . . . 
+                        . . . . . . f . . . . . . . . . 
+                        . . . . . . f . . . . . . . . . 
+                        . . . . . f . f . . . . . . . . 
+                        . . . . f . . . f . . . . . . . 
+                        . . . f . . . . . f . . . . . .
+        """))
+        direction = 1
+forever(on_forever2)
+
+def on_forever3():
+    music.play_tone(262, music.beat(BeatFraction.WHOLE))
+    music.play_melody("G C5 E B B E C5 G ", 1000)
+    music.play_tone(466, music.beat(BeatFraction.WHOLE))
+forever(on_forever3)
+
+def on_forever4():
+    global difficulty
+    pause(2500)
+    difficulty = difficulty - 10
+forever(on_forever4)
+
+def on_forever5():
+    if info.life() == 0:
+        game.over(False)
+forever(on_forever5)
